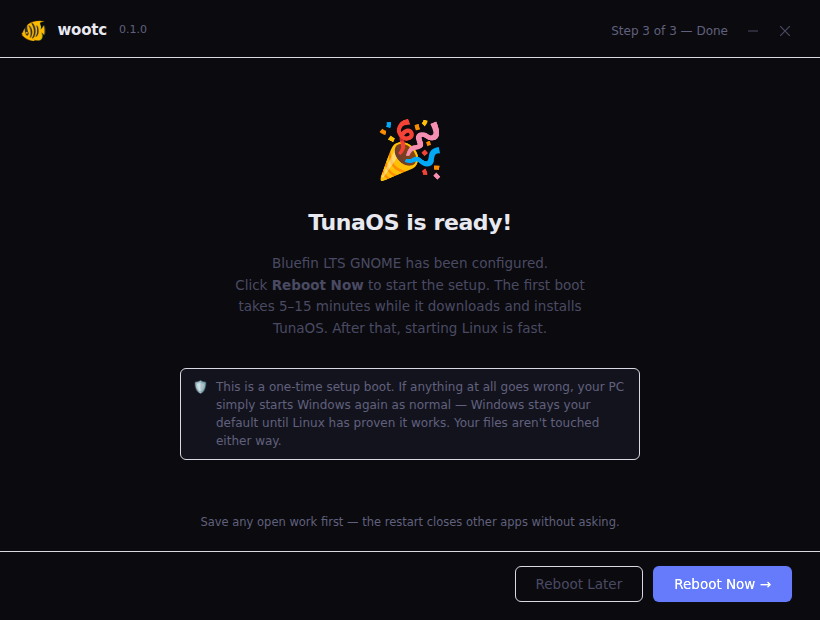
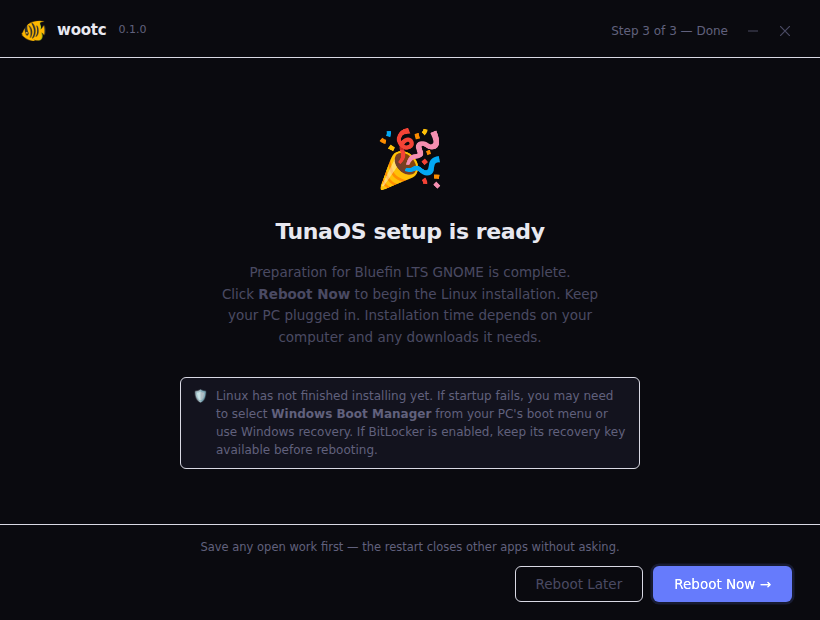
Correct prepared-screen installation and recovery promises (#465)
* Describe prepared setup and recovery limits before reboot

* Avoid unobserved enrollment and session export promises

* Retain observed done screen GUI evidence

* Prove done screen assertions reject previous promises

diff --git a/app/frontend/src/screens/done.js b/app/frontend/src/screens/done.js
@@ -22,28 +22,28 @@ export function renderDoneScreen() {
   const hero = el('div', 'done-hero');
   hero.innerHTML = `
     <div class="done-icon">${doneMark()}</div>
-    <div class="done-title">${distroName()} is ready!</div>
+    <div class="done-title">${distroName()} setup is ready</div>
     <div class="done-body">
-      ${state.selected?.name || distroName()} ${state.selected?.desktopName || ''} has been configured.<br>
-      Click <strong>Reboot Now</strong> to start the setup. The first boot takes 5–15 minutes
-      while it downloads and installs ${distroName()}. After that, starting Linux is fast.
+      Preparation for ${state.selected?.name || distroName()} ${state.selected?.desktopName || ''} is complete.<br>
+      Click <strong>Reboot Now</strong> to begin the Linux installation. Keep your PC plugged in.
+      Installation time depends on your computer and any downloads it needs.
     </div>
     <div style="display:flex;gap:8px;align-items:flex-start;font-size:12px;color:var(--text-muted);margin-top:14px;background:var(--bg-card);border:1px solid var(--border);border-radius:6px;padding:9px 12px;text-align:left;max-width:460px">
-      <span>🛡</span><span>This is a one-time setup boot. If anything at all goes wrong,
-      your PC simply starts Windows again as normal — Windows stays your default
-      until Linux has proven it works. Your files aren't touched either way.</span>
+      <span>🛡</span><span>Linux has not finished installing yet. If startup fails, you may need
+      to select <strong>Windows Boot Manager</strong> from your PC's boot menu or use Windows recovery.
+      If BitLocker is enabled, keep its recovery key available before rebooting.</span>
     </div>
     ${state.selected?.mokEnroll ? `
     <div style="display:flex;gap:8px;align-items:flex-start;font-size:12px;color:var(--text-muted);margin-top:8px;background:var(--bg-card);border:1px solid var(--border);border-radius:6px;padding:9px 12px;text-align:left;max-width:460px">
-      <span>🔑</span><span><strong>One extra one-time step for ${state.selected?.name || 'this system'}:</strong>
-      after setup, a blue "MOK management" screen appears once. That's your PC asking
+      <span>🔑</span><span><strong>Driver trust for ${state.selected?.name || 'this system'}:</strong>
+      after setup, your PC may show a blue "MOK management" screen asking
       permission to trust ${state.selected?.name || 'the'} drivers — choose
       <strong>Enroll MOK</strong> → <strong>Continue</strong> → <strong>Yes</strong>, and type the password
-      <strong>${state.selected.mokEnroll}</strong>. Totally normal, and it never appears again.</span>
+      <strong>${state.selected.mokEnroll}</strong>. Review the request before confirming enrollment.</span>
     </div>` : ''}
     ${Object.values(state.config.sessionConsent || {}).some(Boolean) ? `
     <div style="display:flex;gap:8px;align-items:flex-start;font-size:12px;color:var(--text-muted);margin-top:8px;background:var(--bg-card);border:1px solid var(--border);border-radius:6px;padding:9px 12px;text-align:left;max-width:460px">
-      <span>🔐</span><span><strong>Session keys staged:</strong> your opted-in session keys are safely staged. On Linux, you'll sign in once to connect your apps.</span>
+      <span>🔐</span><span><strong>App sign-in on Linux:</strong> apps you selected may still need you to sign in again.</span>
     </div>` : ''}
   `;
   screen.appendChild(hero);
@@ -53,11 +53,12 @@ export function renderDoneScreen() {
   // other apps do not get a save prompt. The audit flagged that nothing
   // warned about it; one quiet line above the buttons does.
   const saveNote = el('div');
-  saveNote.style.cssText = 'font-size:11.5px;color:var(--text-muted);text-align:center;margin-top:10px';
+  saveNote.style.cssText = 'font-size:11.5px;color:var(--text-muted);text-align:center;flex-basis:100%';
   saveNote.textContent = 'Save any open work first — the restart closes other apps without asking.';
-  screen.appendChild(saveNote);
 
   const footer = el('div', 'footer');
+  footer.style.flexWrap = 'wrap';
+  footer.appendChild(saveNote);
   footer.appendChild(btn('Reboot Later', 'btn btn-ghost', () => Quit()));
   footer.appendChild(btn('Reboot Now →', 'btn btn-primary', () => Reboot()));
   wrap.appendChild(footer);

diff --git a/tests/gui/gui.spec.js b/tests/gui/gui.spec.js
@@ -77,8 +77,33 @@ test('installer — done screen', async ({ page }) => {
   await pw.nth(0).fill('hunter2');
   await pw.nth(1).fill('hunter2');
   await page.locator('#install-btn').click();
-  await expect(page.locator('.done-title')).toContainText('ready', { timeout: 5000 });
+  await expect(page.locator('.done-title')).toHaveText('TunaOS setup is ready', { timeout: 5000 });
+  await expect(page.locator('.done-body')).toContainText('begin the Linux installation');
+  await expect(page.locator('.done-hero')).toContainText('Linux has not finished installing yet');
+  await expect(page.locator('.done-hero')).toContainText('Windows Boot Manager');
+  await expect(page.locator('.done-hero')).toContainText('keep its recovery key available');
+  await expect(page.locator('.done-hero')).not.toContainText('5–15 minutes');
+  await expect(page.locator('.done-hero')).not.toContainText('anything at all');
+  await expect(page.locator('.done-hero')).not.toContainText("Your files aren't touched");
+  await expect(page.getByRole('button', { name: 'Reboot Now →' })).toBeVisible();
+  await expect(page.getByRole('button', { name: 'Reboot Later' })).toBeVisible();
   await shot(page, '04-done');
+});
+
+test('installer — session consent does not assert successful export', async ({ page }) => {
+  const steps = [{ step: 'done', message: 'Preparation complete.', percent: 100, done: true }];
+  await boot(page, { mode: 'installer', images: IMAGES, sysinfo: SYSINFO, installSteps: steps,
+    sessionCandidates: [{ app: 'firefox', portable: true, recommend: 'copy', note: 'Public fixture candidate' }] });
+  await page.locator('details:has-text("Advanced") summary').click();
+  await page.locator('label').filter({ hasText: 'Public fixture candidate' }).locator('input[type=checkbox]').check();
+  await page.locator('.field:has-text("Linux Username") input').fill('alice');
+  const pw = page.locator('input[type=password]');
+  await pw.nth(0).fill('hunter2'); await pw.nth(1).fill('hunter2');
+  await page.locator('#install-btn').click();
+  await expect(page.locator('.done-hero')).toContainText('App sign-in on Linux');
+  await expect(page.locator('.done-hero')).not.toContainText('Session keys staged');
+  await expect(page.locator('.done-hero')).not.toContainText('safely staged');
+  await expect(page.getByText('Save any open work first', { exact: false })).toBeInViewport();
 });
 
 test('control panel — partition-aware uninstall options', async ({ page }) => {

diff --git a/tests/gui/branded-walkthrough.spec.js b/tests/gui/branded-walkthrough.spec.js
@@ -138,7 +138,11 @@ for (const id of fs.readdirSync(BRANDS_DIR).filter(f =>
       await fillForm(page);
       await page.locator('#install-btn').click();
       await expect(page.locator('.done-title'))
-        .toContainText(`${brand.name} is ready`, { timeout: 5000 });
+        .toContainText(`${brand.name} setup is ready`, { timeout: 5000 });
+      await expect(page.getByText('Save any open work first', { exact: false })).toBeInViewport();
+      await expect(page.getByRole('button', { name: 'Reboot Now →' })).toBeInViewport();
+      await expect(page.locator('.done-hero')).toContainText('Linux has not finished installing yet');
+      await expect(page.locator('.done-hero')).not.toContainText('5–15 minutes');
       await shot(page, id, '03-done');
     });
 

diff --git a/tests/gui/done-truth.config.js b/tests/gui/done-truth.config.js
@@ -1,0 +1,11 @@
+import base from './playwright.config.js';
+export default {
+  ...base,
+  use: { ...base.use, baseURL: 'http://127.0.0.1:5664' },
+  webServer: {
+    command: './node_modules/.bin/http-server ../../app/frontend/dist -p 5664 -s -c-1',
+    url: 'http://127.0.0.1:5664',
+    reuseExistingServer: false,
+    timeout: 30000,
+  },
+};
